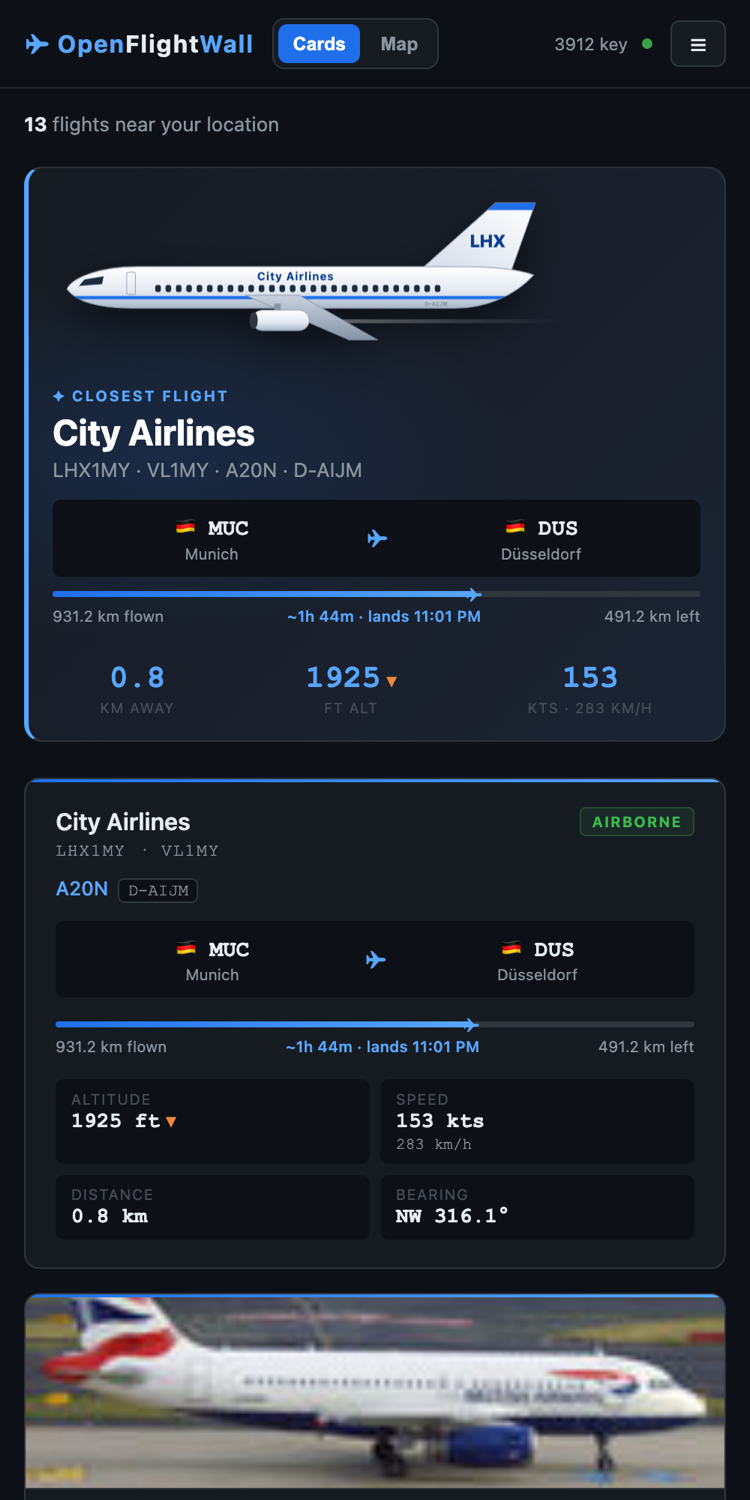
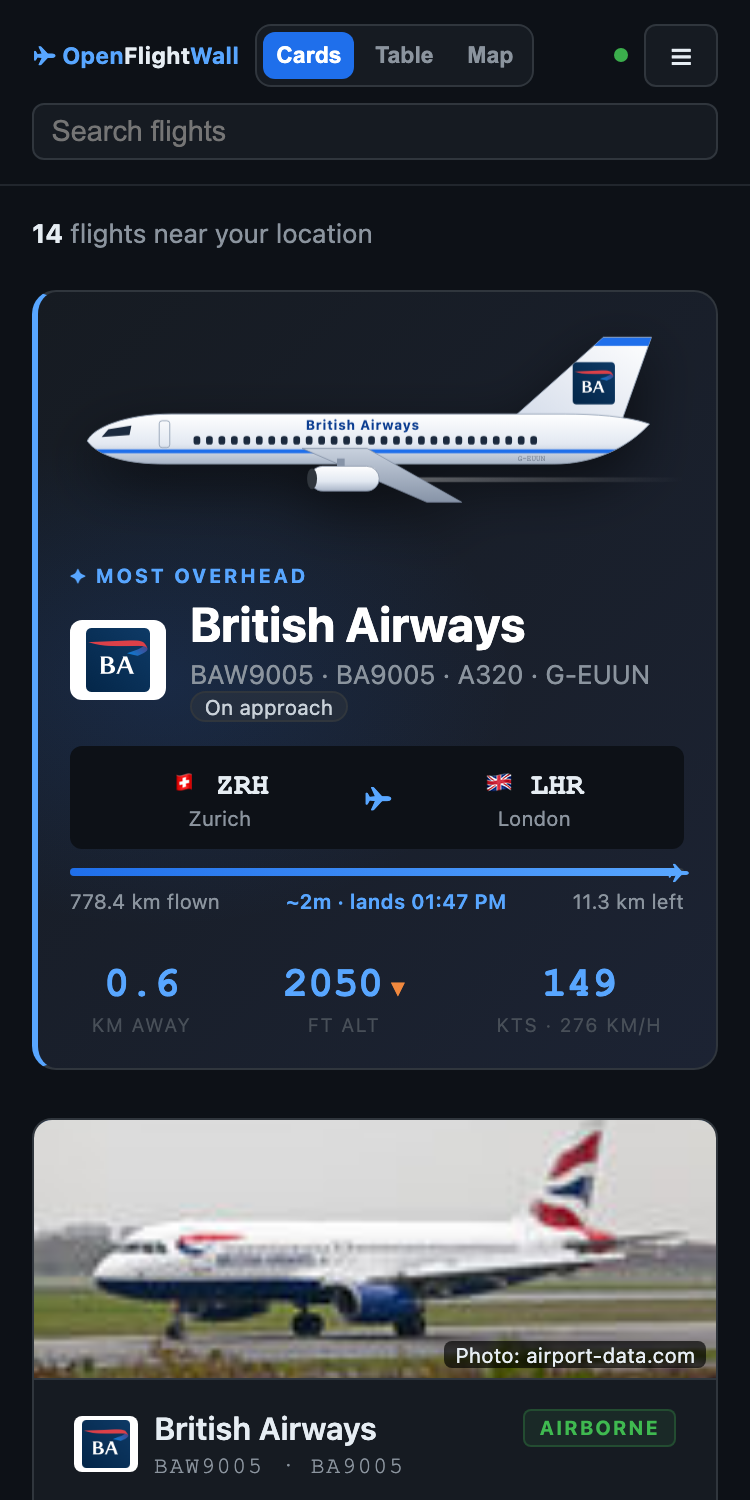
Update screenshots, README and website for the new features

diff --git a/site/index.html b/site/index.html
@@ -174,7 +174,7 @@
         </div>
         <a class="small-link" href="#story">Read how it started →</a>
         <img class="hero-shot" src="screenshots/wall-mode.png" width="1920" height="1200"
-             alt="OpenFlightWall wall mode: a large clock, a Cathay Pacific 777 drawn with its logo on the tail, its route from Hong Kong to London and live stats">
+             alt="OpenFlightWall wall mode: a large clock, a British Airways A320 drawn with its logo on the tail, a sample route from Zurich to London and live stats">
       </div>
     </div>
 
@@ -196,12 +196,13 @@
               heading. It closes itself after a minute, or stays open if you prefer.
             </p>
             <ul>
+              <li>Emergency squawks and your own watchlist trigger their own alert</li>
               <li>Optional browser notifications and a sound ping for new flights</li>
               <li>Plane art matches the type: jumbos, wide-bodies, regional jets, turboprops, helicopters…</li>
             </ul>
           </div>
           <img src="screenshots/overhead-alert.png" width="1920" height="1200" loading="lazy"
-               alt="Full-screen overhead alert for a Cathay Pacific Boeing 777 with route, progress bar and stat tiles">
+               alt="Full-screen overhead alert for a British Airways A320 with a sample route, progress bar and stat tiles">
         </div>
 
         <div class="feature flip">
@@ -209,15 +210,36 @@
             <h3>A live map that moves</h3>
             <p>
               A dark map with every plane rotated to its heading, gliding smoothly between updates and trailing
-              its recent path. Click a plane for its photo and details and its great-circle route; click the map
-              to move your location.
+              its recent path. Click a plane for its photo, details, great-circle route and an altitude chart;
+              click the map to move your location.
             </p>
+            <ul>
+              <li>Altitude colours from pale blue (low) to deep blue (high), with red kept for emergencies</li>
+              <li>Optional callsign labels, and a button to keep one plane centred</li>
+            </ul>
           </div>
           <img src="screenshots/map-view.png" width="1920" height="1200" loading="lazy"
-               alt="Dark map of London with plane icons, short trails and a popup showing a Cathay Pacific 777">
+               alt="Dark map of London with altitude-coloured planes, callsign labels, trails, a legend and a popup with an altitude chart">
         </div>
 
         <div class="feature">
+          <div class="feature-text">
+            <h3>Every flight in one table</h3>
+            <p>
+              A sortable table shows type, registration, route, flight phase, altitude, vertical rate, speed,
+              distance, heading and squawk for everything in range. Click a flight to open it on the map.
+            </p>
+            <ul>
+              <li>Search by callsign, registration, type, airline, airport or squawk</li>
+              <li>Filter by aircraft category, altitude and airline</li>
+              <li>Aviation, metric or mixed units, and km, miles or nautical miles</li>
+            </ul>
+          </div>
+          <img src="screenshots/table-view.png" width="1920" height="1200" loading="lazy"
+               alt="Table of nearby flights sorted by distance, with one flight marked as an emergency">
+        </div>
+
+        <div class="feature flip">
           <div class="feature-text">
             <h3>Wall mode for a TV or Raspberry Pi</h3>
             <p>
@@ -232,12 +254,12 @@
                alt="Wall mode with a large clock, featured flight and scrolling ticker">
         </div>
 
-        <div class="feature flip">
+        <div class="feature">
           <div class="feature-text">
             <h3>Cards, a spotlight, and your phone</h3>
             <p>
-              Every flight gets a card with its photo, airline logo, route, progress and ETA, and the closest one
-              gets a spotlight banner. On a phone the controls fold into a menu so it works in your pocket too.
+              Every flight gets a card with its photo, airline logo, route, progress and ETA, and the plane you're
+              most likely to notice, low and heading your way, gets a spotlight banner. On a phone the controls fold into a menu so it works in your pocket too.
             </p>
           </div>
           <img class="phone" src="screenshots/mobile.png" width="750" height="1500" loading="lazy"
@@ -246,11 +268,12 @@
 
         <div class="grid">
           <div class="tile"><b>🔔 Notifications &amp; sound</b><span>New flights, overhead only, or both.</span></div>
-          <div class="tile"><b>↕ Sort &amp; filter</b><span>By distance, altitude or airline; hide aircraft on the ground.</span></div>
+          <div class="tile"><b>↕ Sort your way</b><span>By distance, most overhead, altitude or airline; hide aircraft on the ground.</span></div>
           <div class="tile"><b>📍 Your location stays yours</b><span>Detected in the browser and never sent anywhere; optionally remembered locally.</span></div>
           <div class="tile"><b>✨ Update alerts</b><span>A small notice when a new release is out, with what's new.</span></div>
           <div class="tile"><b>🐳 Docker image</b><span>Multi-arch (amd64 + arm64), so a Raspberry Pi works out of the box.</span></div>
-          <div class="tile"><b>🛫 Climb, descent &amp; squawk</b><span>Vertical-rate arrows and transponder codes at a glance.</span></div>
+          <div class="tile"><b>🛫 Flight phase &amp; squawk</b><span>Climbing, cruising or on approach, plus transponder codes at a glance.</span></div>
+          <div class="tile"><b>⌨ Keyboard shortcuts</b><span>Search, switch views, toggle labels and keep a plane centred from the keyboard.</span></div>
         </div>
       </div>
     </section>

diff --git a/AGENTS.md b/AGENTS.md
@@ -70,6 +70,7 @@ GitHub API         →  latest release / tags (update check only, cached 6 h, OF
 ## Route and position checks
 
 - `compute_progress()` sets `route_plausible: false` when going via the plane adds over 25% and over 100 km to the route. Progress fields are then `None`, and the UI shows "Route unverified" and draws no route line. Only `=== false` counts, since the demo and older data may omit it.
+- `compute_progress()` gives no ETA when more than `ETA_FAR_KM` (300) remains at under `ETA_MIN_CRUISE_KMH` (400), since speed then says nothing about arrival.
 - `fetch_state_vectors()` drops fixes older than `MAX_POSITION_AGE_S = 300` and exposes `position_age_s`; `renderMap()` uses it so the glide starts from when the position was measured.
 
 ## API Endpoints
@@ -190,6 +191,7 @@ Running apps notice the new release within about a day (server cache 6 h, browse
 - `site/index.html` — hand-written landing page (no framework). `site/demo.js` — replay engine + demo banner; sets `window.OFW_DEMO = {center, pollMs, flights(loc, radiusKm)}`, advancing airborne planes along their heading (6-minute loop) and recomputing distance/bearing. `site/snapshot.json` — the recording.
 - `site/build.py` (stdlib) writes `_site/` (git-ignored): copies the landing page and `docs/screenshots/`, and renders `templates/index.html` into `_site/demo/index.html` by replacing `{{ default_radius }}` and injecting the snapshot JSON + `demo.js` before the main `<script>`. It **fails loudly** if those anchors change. Preview with `python3 site/build.py --serve` (http://localhost:8000/); opening `site/index.html` directly shows no images and no demo, because those only exist in `_site/`.
 - **Demo hooks in `templates/index.html`** — `const DEMO = window.OFW_DEMO || null`; `POLL_MS` uses `DEMO.pollMs`; `start()` calls `startDemo()` (adds `body.demo`, sound/notifications off, no config/update/saved-location calls, `setLocation(DEMO.center…)`); `loadFlights()` takes `DEMO.flights(...)` instead of `/api/flights`. `body.demo` hides ⚙ (so Notify, Overhead alert, Save location, units and the watchlist too) and the credits badge. When editing `start()`/`loadFlights()`, keep these branches working and rebuild the site to check the demo.
+- **Screenshots** in `docs/screenshots/` are taken from the demo page so they only show sample routes. `notification.png` (a real macOS notification) and the article covers predate this.
 - Refresh the recording: run the dev server, then `python3 site/capture_snapshot.py [--lat --lon --radius --label]` (keeps airborne flights only and strips routes and flight numbers). Add hand-written sample callsigns and routes afterwards, with airport details not taken from adsbdb, and keep the demo banner's "samples" wording. See Hard Constraints.
 - `.github/workflows/pages.yml` builds and deploys on pushes to `main` touching `site/**`, `templates/index.html` or `docs/screenshots/**` (plus manual dispatch). Requires Settings → Pages → Source: **GitHub Actions** (one-time).
 

diff --git a/README.md b/README.md
@@ -8,8 +8,13 @@ A zero-cost local web dashboard that shows nearby flights in real time. Runs on 
 
 ![OpenFlightWall Medium article cover](docs/screenshots/article-cover-1.png)
 
+The screenshots use the replay demo's sample callsigns and routes.
+
 **Card View:**
 ![Card View](docs/screenshots/card-view.png)
+
+**Table view:**
+![Table view](docs/screenshots/table-view.png)
 
 **Browser notification:**
 
